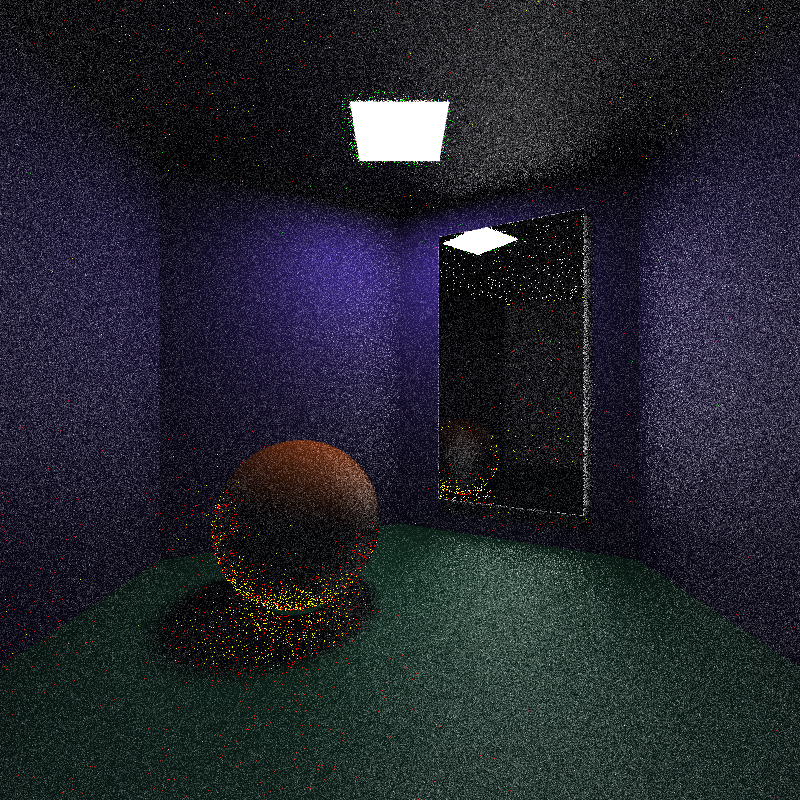
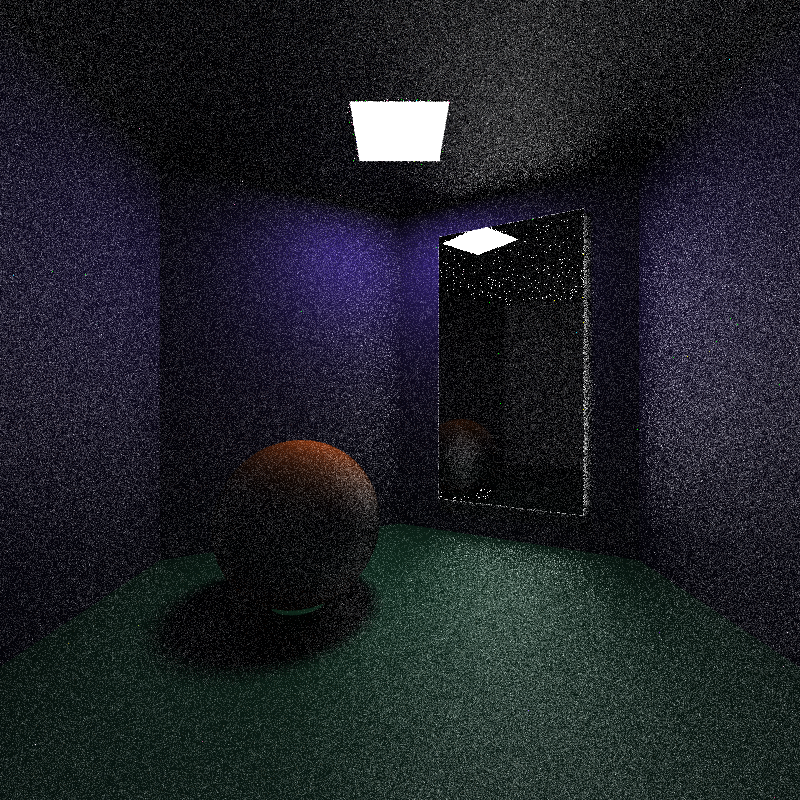
Sista push för idag. Lite bättre men inget indirekt ljus på väggarna...

Changed region(s): [[0.3125, 0.3438, 0.5625, 0.5], [0.3125, 0.5625, 0.4688, 0.625], [0.2812, 0.7188, 0.4375, 0.7812]]

diff --git a/Tracer2/Tracer.cpp b/Tracer2/Tracer.cpp
@@ -61,9 +61,10 @@ Color direct_light(Scene& myscene, int shadow_rays, Point3D intersection_point, 
 			//Cast a shadow ray from the intersection point towards the random point on our light source. 
 			Ray shadowRay(intersection_point, unit_vector(distance_vector));
 
+			double BRDF = dot(unit_vector(distance_vector), object_normal);
+
 			//Check if the shadow ray reached the light source or not. 
 			if (!shadowRay.is_blocked(myscene, distance)) {
-
 				//If it is not in shadow, calculate radiance. 
 				Vec3 Nx = object_normal;//Normal of hit object.
 				Vec3 Ny = light->get_normal();//Normal of light source. 
@@ -74,7 +75,7 @@ Color direct_light(Scene& myscene, int shadow_rays, Point3D intersection_point, 
 
 				Color geometric_factor = object_color * cosOmegaX * cosOmegaY / pow(distance, 2);
 
-				radiance_cur_ls += geometric_factor; //Sum the contribution from the geometric factor.
+				radiance_cur_ls += (BRDF * geometric_factor); //Sum the contribution from the geometric factor.
 			}
 		}
 
@@ -151,30 +152,13 @@ Ray build_path(Scene myscene, Ray& origin_ray) {
 
 Color terminate_ray(Scene myscene, Ray& r) {
 
-	Color indirect{0,0,0};
-	Color direct = r.radiance;
-	Color result{ 1,1,1 };
-
-	while (r.prev_ray != nullptr) {
-		direct = r.radiance;
-		if (r.next_ray != nullptr)
-			indirect = r.next_ray->radiance * r.next_ray->rho/M_PI;
-		result = direct + indirect;
-		r.radiance = result;
-		r = *r.prev_ray;
-	}
-
-	return result;
-	
-
-	/*//Base case
+	//Base case
 	if (r.prev_ray == nullptr)
 		return r.radiance;
 
 	//Uncomment for direct light.
 	//return (terminate_ray(myscene, *r.prev_ray));
 	return (r.radiance * r.rho/M_PI + terminate_ray(myscene, *r.prev_ray));
-	*/
 }
 
 
